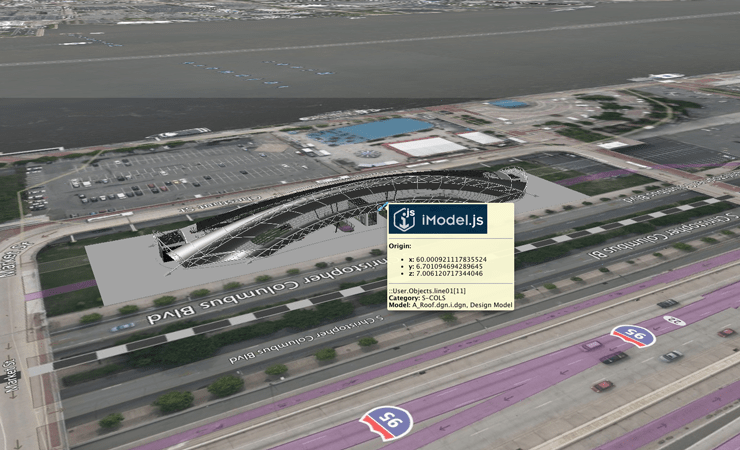
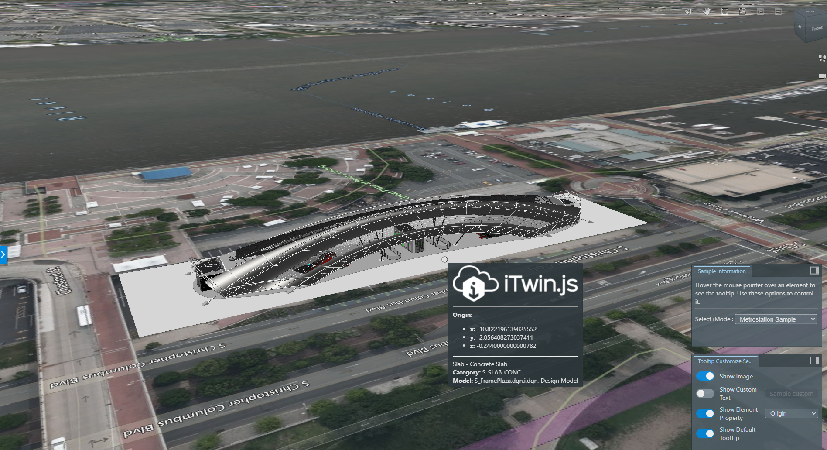
Update tootip customize to iTwin brand

diff --git a/src/frontend-samples/tooltip-customize-sample/TooltipCustomizeApi.ts b/src/frontend-samples/tooltip-customize-sample/TooltipCustomizeApi.ts
@@ -58,7 +58,7 @@ export class ShowcaseToolAdmin extends ToolAdmin {
     const tip = document.createElement("div");
     let needHR = false;
     if (this.settings.showImage) {
-      const img = await imageElementFromUrl(".\\iModeljs-logo.png");
+      const img = await imageElementFromUrl(".\\itwinjs-logo.svg");
       tip.appendChild(img);
       needHR = true;
     }
